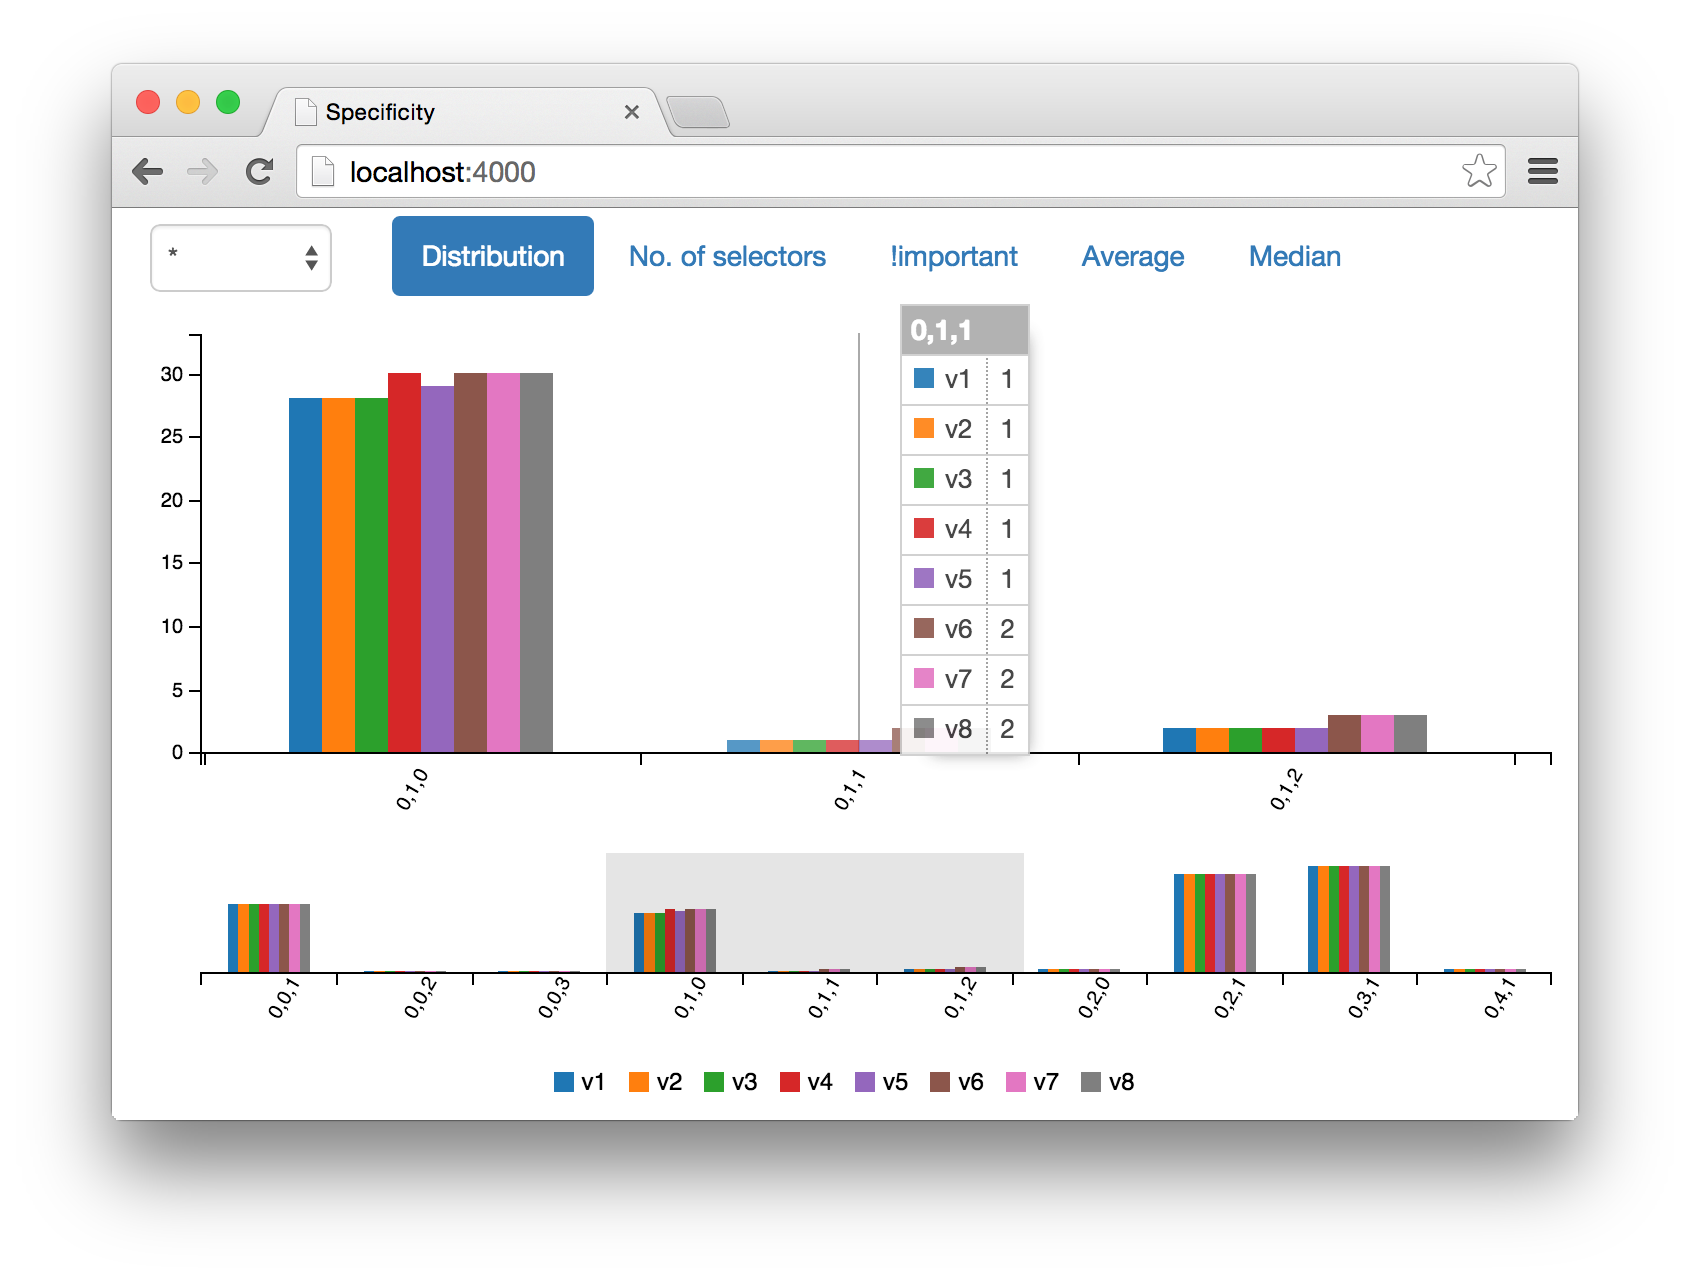
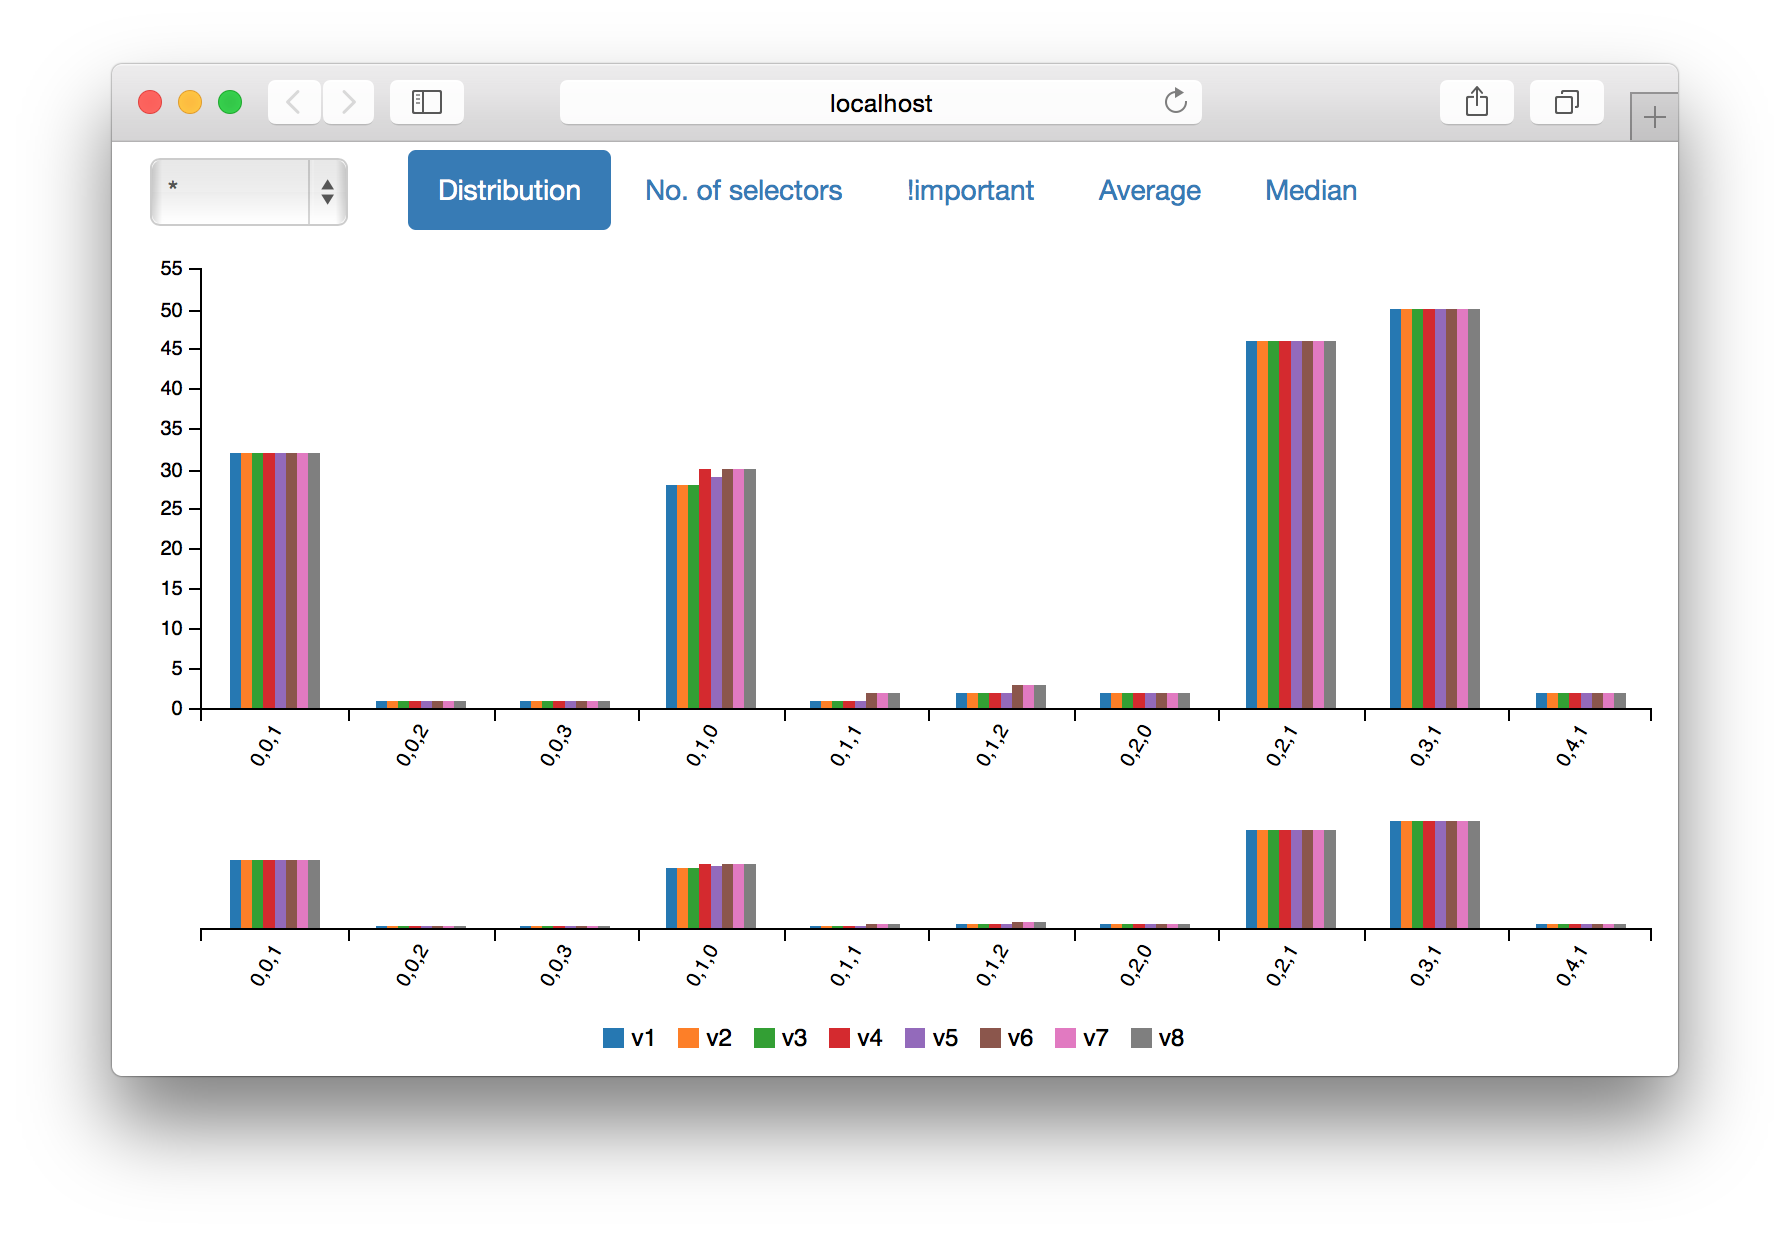
Drafts update

Changed region(s): [[0.0615, 0.0615, 0.9538, 0.8916]]

diff --git a/_drafts/introduction-to-css-explorer.md b/_drafts/introduction-to-css-explorer.md
@@ -9,8 +9,8 @@ share-image: css-explorer-distribution.png
 ---
 
 I’ve been curious about the state of our CSS code and its changes over the time.
-So I’ve written recently a program called `node-specificity`. What does it do?
-It answers the following questions:
+So I’ve written recently a program called [`specificity`](https://github.com/eprev/specificity).
+What does it do? It answers the following questions:
 
 1. What is a total number of selectors in your CSS codebase?
 How has it been changing over the time?
@@ -22,7 +22,7 @@ How has it been changing over the time?
 How has it been changing over the time?
 
 Wait, why is it so important? It’s not, until you have a codebase of dozens of
-thousands lines of code that is hard to maintain and you’re used to do a lot of experiments.
+thousands lines of code that is hard to maintain and you used to do a lot of experiments.
 And of course, if it’s not even important, it’s quite interesting at least.
 
 ![Screenshot of the ‘server’ report](/assets/posts/css-explorer-distribution.png)
@@ -54,3 +54,12 @@ $ node-specificity explore v*.json --report=server
 Server is running on http://localhost:4000/
 Press Ctrl + C to stop it.
 ~~~
+
+Open a browser and go to ’http://localhost:4000/’. Now you’re supposed to be seeing the page
+with different controls and a weird graph. It‘s the specificity distribution bar chart (see in
+the picture above). For each specificity (tuple) it shows the total number of selectors
+of this specificity in the specific profile.
+
+![Screenshot of the ‘server’ report](/assets/posts/css-explorer-selectors.png)
+![Screenshot of the ‘server’ report](/assets/posts/css-explorer-profile.png)
+![Screenshot of the ‘server’ report](/assets/posts/css-explorer-cli.png)
